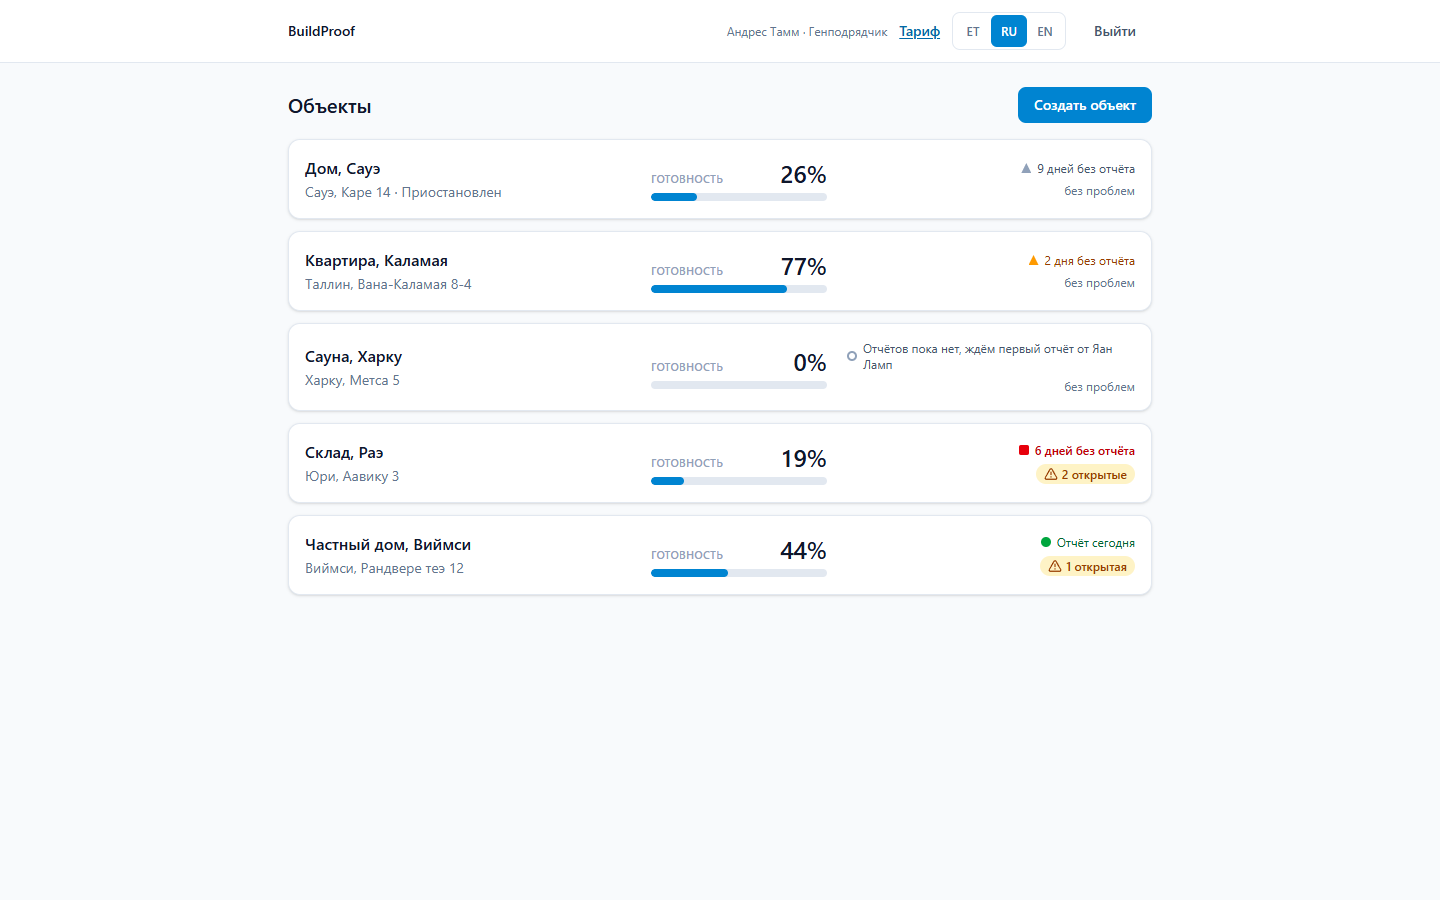
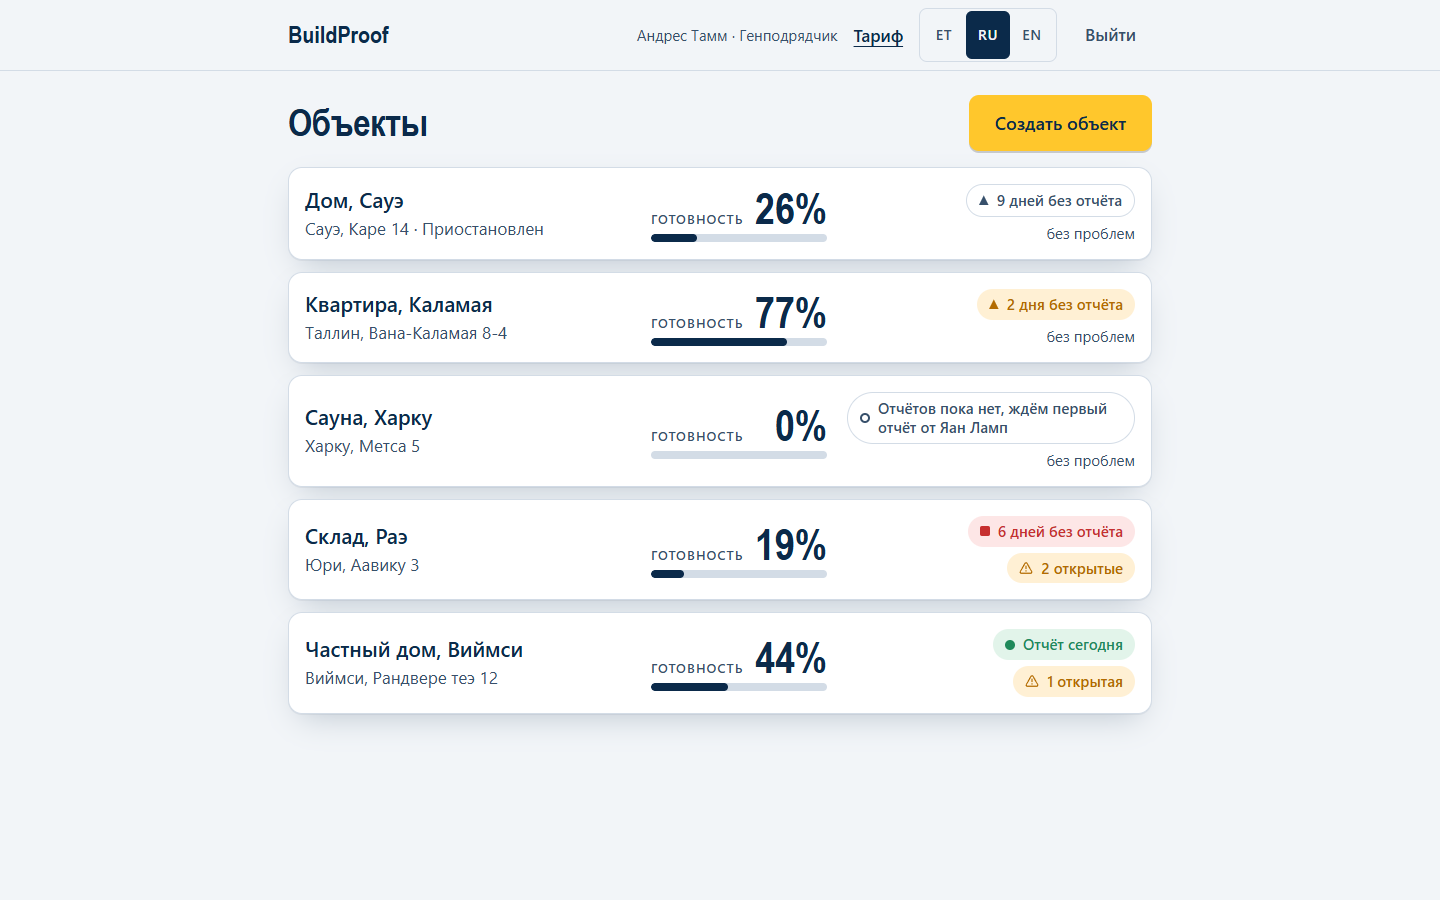
docs: A0c before/after screenshots (390/1440, light/dark), capture checks, PR notes

diff --git a/docs/pr/A0c-ui-quickpass.md b/docs/pr/A0c-ui-quickpass.md
@@ -1,0 +1,55 @@
+# A0c · claude/ui-quickpass: «Объекты» and «Обзор объекта» in the landing style
+
+**Base:** fresh `origin/main` (A0 and A0b already merged).
+
+## What was done
+
+Only the outer layer of the screens changed. Data, logic, routes and dictionaries are untouched, and no dependencies were added.
+
+- **One scoped stylesheet**, `src/styles/app-skin.css`, loaded in the app chunk only. The landing chunk does not grow. It applies inside `.bp`, the wrapper of «Объекты» and of the project shell (`ProjectLayout`).
+  - Inside `.bp`, Tailwind's palette variables (slate, sky, green, amber, red) point at the prototype tokens: navy `#0b2a4a`, paper, line, ok, warn, bad. Existing utility classes pick up the new colours without changes to markup.
+  - A few `bp-*` hook classes cover what tokens cannot do alone. Outside `.bp` they have no effect.
+- **Fonts:** IBM Plex Sans Condensed for headings, IBM Plex Sans for text. They come from the same self-hosted files as the landing (`public/fonts`, via `features/landing/fonts.css`).
+- **Main button:** yellow `#ffc72c` with navy text, 56 px high: «Создать объект», «Создать первый объект», «Отметить первый этап». Other primary buttons are solid navy, which inverts correctly in dark mode.
+- **Statuses:** shape plus text on a tinted pill:
+  - ● green «Отчёт сегодня»
+  - ▲ amber «N дня без отчёта»
+  - ■ red «N дней без отчёта»
+  - ○ neutral outline for the rest
+
+  «N открытых» issues use an amber pill with the warning icon.
+- **Large readiness figure:** 34–44 px Condensed, on the list cards and in the overview's «Готовность» tile. Bars are navy on a line-coloured track, as in the prototype.
+- **Cards:** surface background, a 1 px line border, 14 px radius and the prototype shadow. Section headings are 22 px Condensed.
+- **Light and dark theme** from `prefers-color-scheme`, with `:root[data-theme]` honoured like on the landing. Dark mode is on for «Объекты» and the overview tab only. The other project tabs share the shell but are not redrawn yet, so they stay light (see below).
+- **Touch targets ≥ 48 px** on both screens:
+  - header links
+  - language switcher
+  - «Выйти»
+  - tabs
+  - the per-stage photo / task / issue actions (were 36 px)
+  - the 3D model's stage chips and «Проиграть стройку» (were 32–36 px)
+  - the WhatsApp line
+- **Body text 17 px** (Tailwind `text-sm` and `text-base`). Small print is 15 px.
+- **3D model block:** keeps its own dark palette. A `bp-native` class restores the stock colours inside it; only its buttons got larger.
+
+**Screenshots, before → after:** `docs/screens/quickpass/{before,after}-<screen>-<light|dark>-<390x844|1440x900>.png`. Screens: `dashboard`, `dashboard-empty`, `overview`, `overview-new`. In the "before" set dark equals light, because the app had no dark theme. The full A0 set in `docs/screens/` was regenerated: the shared project shell changed on every tab.
+
+**Checks:**
+- lint clean
+- `tsc -b` clean
+- tests 38/38
+- `ALLOW_PLACEHOLDERS=1 npm run build` OK
+- `SET=quickpass` in `docs/screens/capture.mjs`, on every screen at 390 and 1440, light and dark: no horizontal scroll, no Latin words, base font 17 px, no touch target under 48 px at 390. The full set also passes the scroll and Latin checks.
+
+## What I set aside
+
+- **Dark theme on the other project tabs** (Этапы, Фото, Задачи, Проблемы, Настройки) and on modals. Their inner markup is not ready for it, and that is A6 (redraw after the mock-ups). They now get the light skin from the shared shell; it reads well in the screenshots.
+- **Plex Mono for labels and the language switcher**, as in the prototype. Fonts load with `font-display: optional`, and the mono face often arrives too late: Cyrillic labels then fell back to Courier. Labels use Plex Sans with letter-spacing instead.
+
+## What remains
+
+- **IBM Plex Sans Condensed has only Latin files in `public/fonts`.** Russian headings fall back to `Arial Narrow` or the system font, as on the landing. To fix: add `ibm-plex-sans-condensed-{600,700}-cyrillic(-ext).woff2`. This is a font file, not a dependency, but it is a separate decision.
+- **First visit shows system fonts** (`font-display: optional`, as on the landing); Plex appears from the second view on. The capture script now loads every page twice, so the screenshots show what a returning user sees.
+- **On a 390 px phone the «Объекты» header takes two rows** (logo, then Тариф / language / Выйти) to keep 48 px targets without horizontal scroll.
+
+🤖 Generated with [Claude Code](https://claude.com/claude-code)
